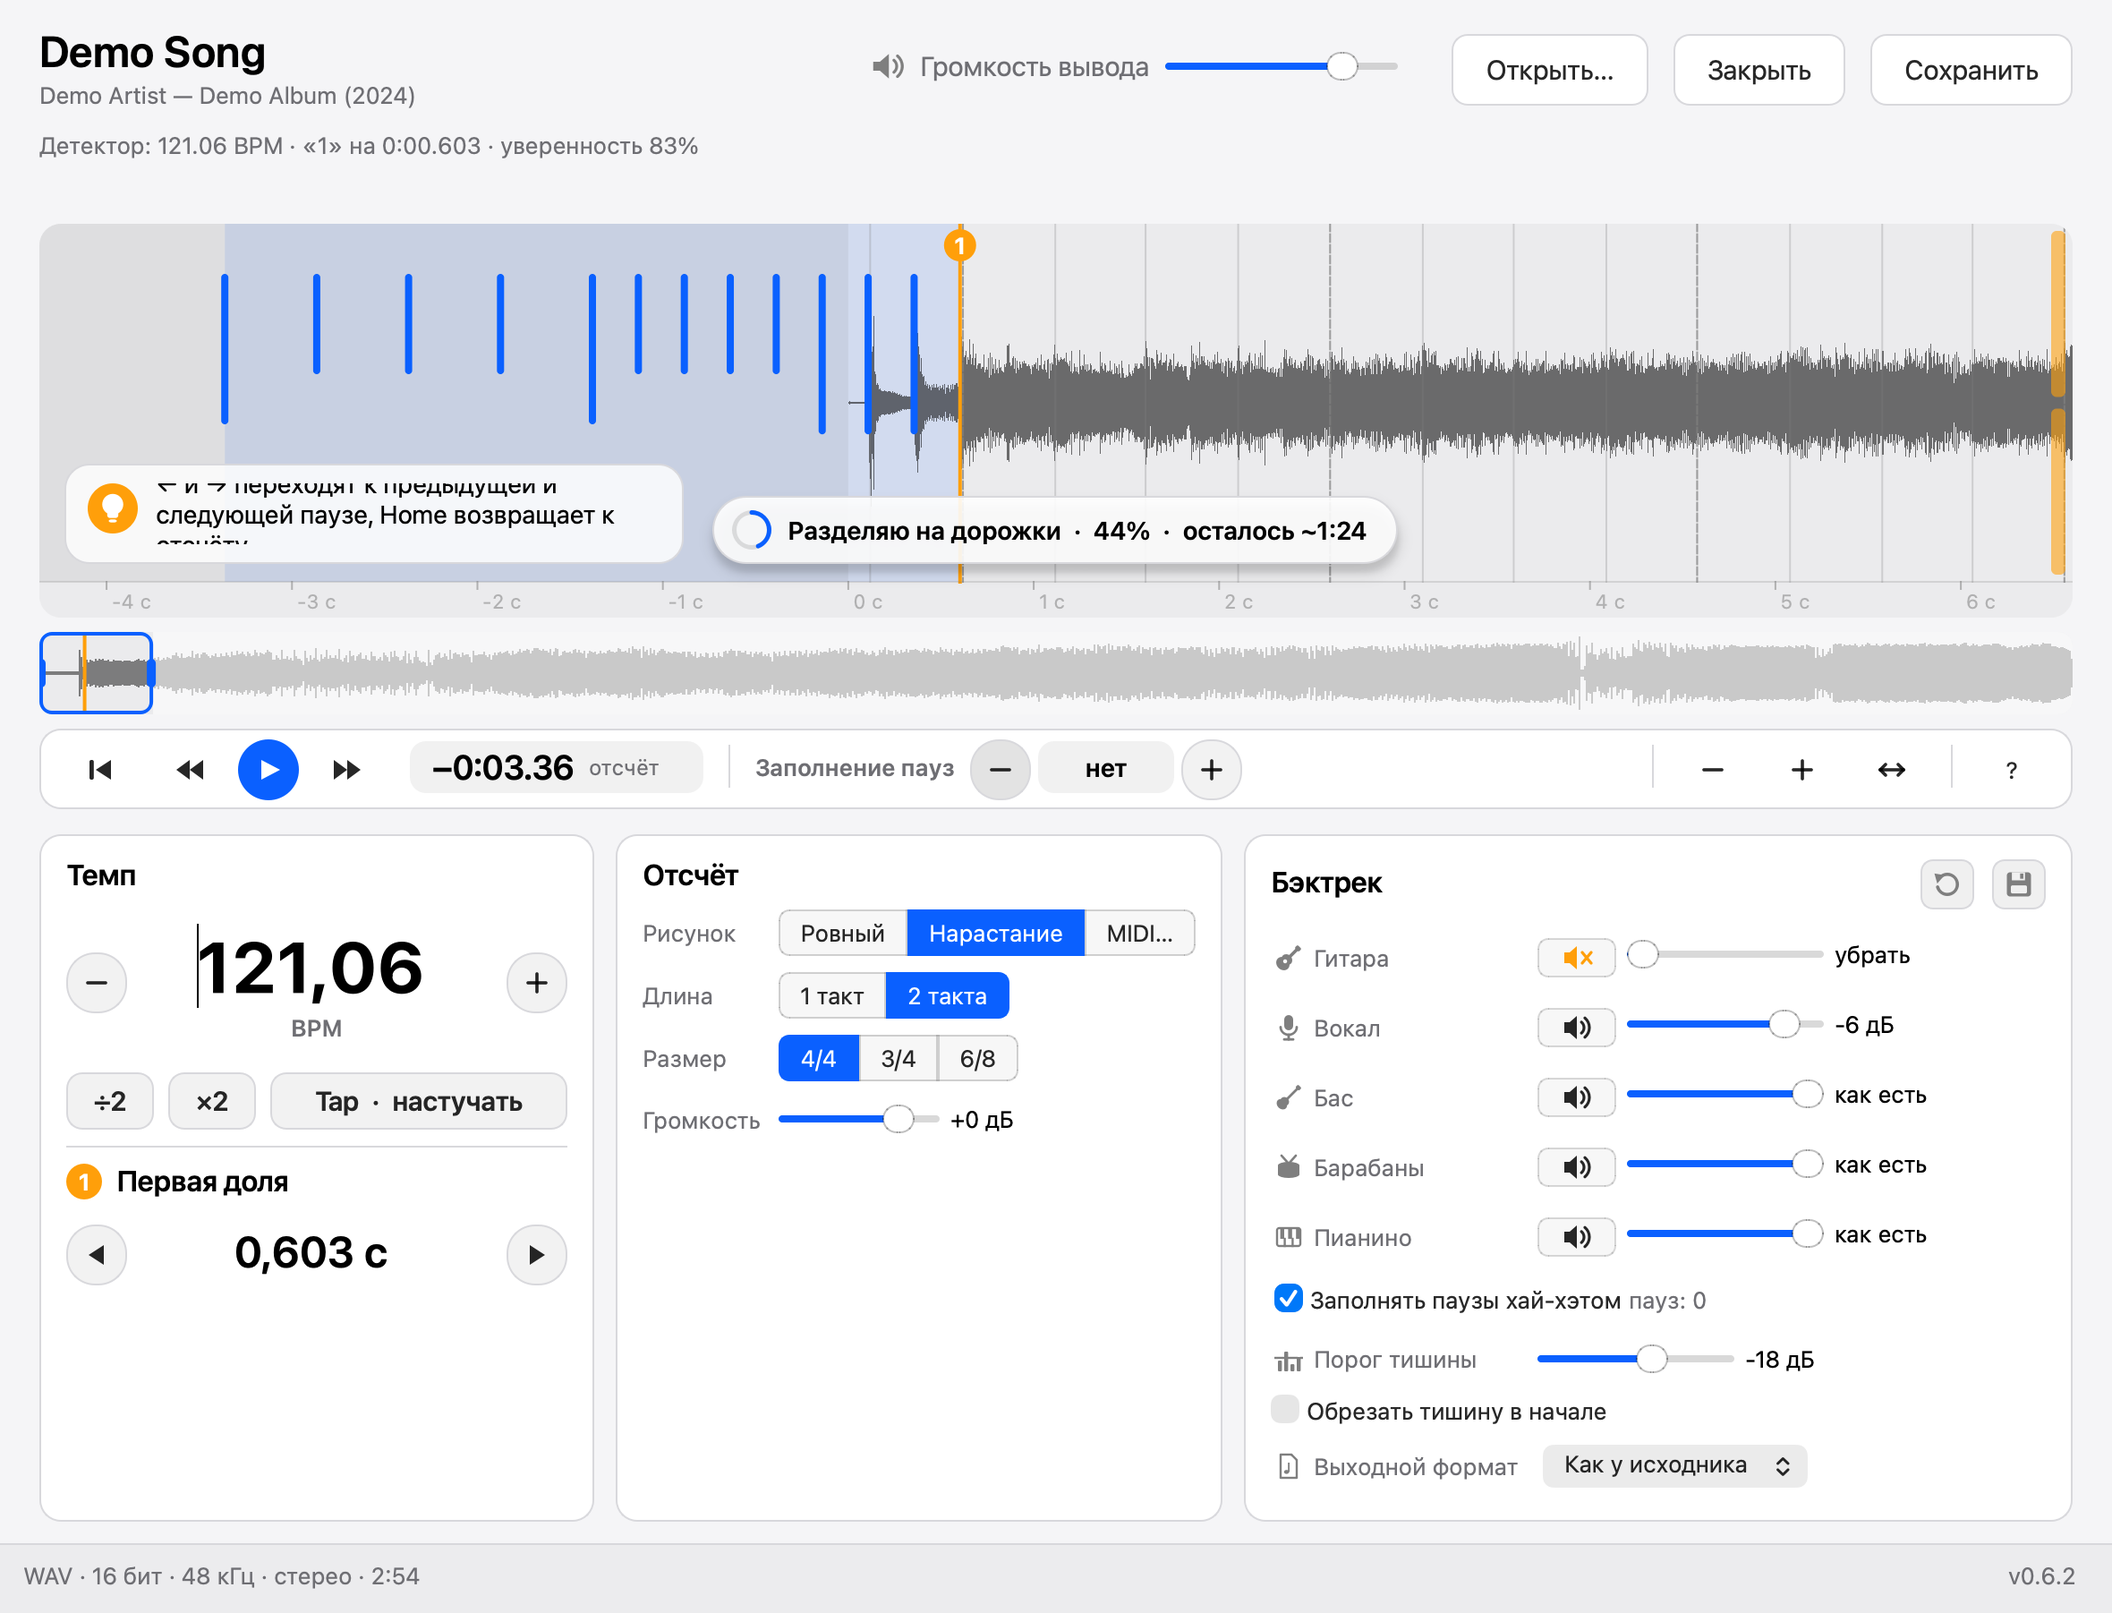
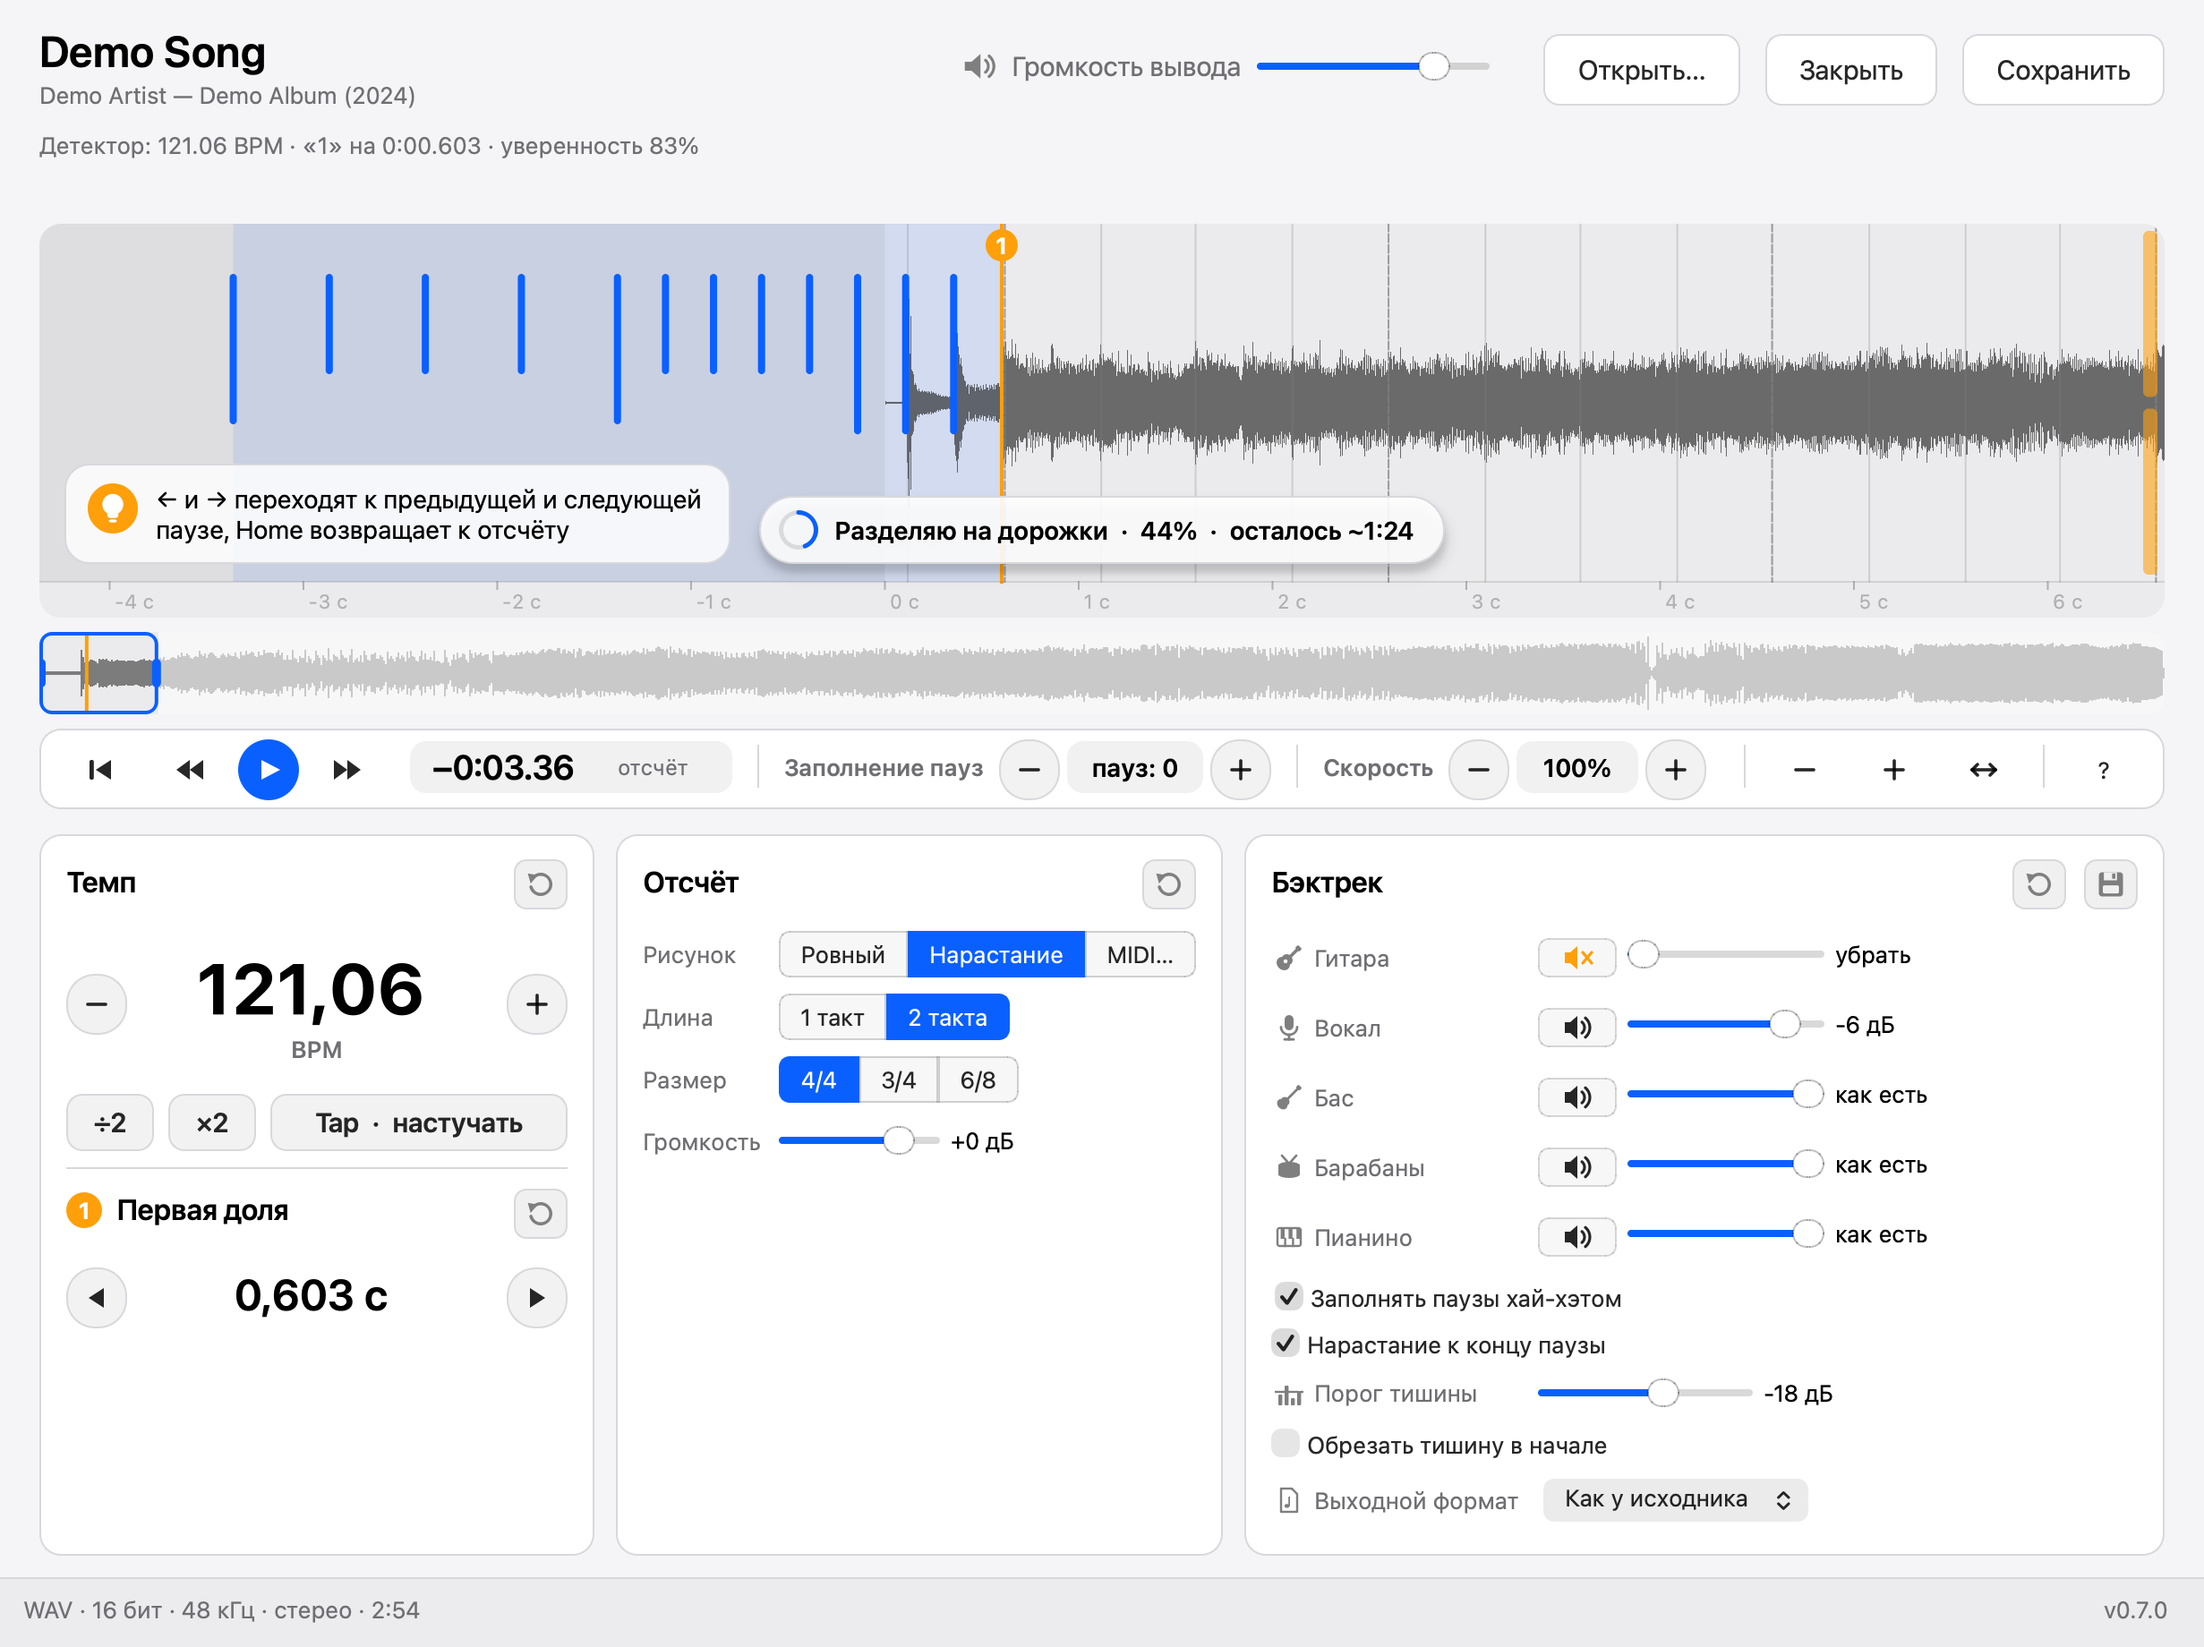
Fresh screenshots and guide images for 0.7.0; wider clock and cache labels

diff --git a/docs/ru/index.html b/docs/ru/index.html
@@ -119,12 +119,17 @@
     <div class="card">
       <div class="ico" aria-hidden="true">≋</div>
       <h3><span lang="ru">Минусовки</span></h3>
-      <p lang="ru">BS-RoFormer отделяет гитару и вокал за один проход. У каждого свой ползунок: приглушить на пару дБ или убрать совсем.</p>
+      <p lang="ru">BS-RoFormer за один проход на видеокарте разделяет гитару, вокал, бас, барабаны и пианино. У каждой дорожки свой ползунок: приглушить на пару дБ или убрать совсем.</p>
     </div>
     <div class="card">
       <div class="ico" aria-hidden="true">▶</div>
-      <h3><span lang="ru">Прослушивание до сохранения</span></h3>
-      <p lang="ru">Пробел проигрывает отсчёт и начало песни. Ползунки меняют звук прямо во время прослушивания.</p>
+      <h3><span lang="ru">Хай-хэт в паузах</span></h3>
+      <p lang="ru">Там, где без убранных инструментов тихо, хай-хэт держит ритм: громкостью как музыка вокруг и с нарастанием к вступлению.</p>
+    </div>
+    <div class="card">
+      <div class="ico" aria-hidden="true">◷</div>
+      <h3><span lang="ru">Замедление</span></h3>
+      <p lang="ru">Занимайтесь на скорости 50–100% без смены тона. Отсчёт и хай-хэт идут по замедленной сетке, замедленный трек можно сохранить.</p>
     </div>
     <div class="card">
       <div class="ico" aria-hidden="true">♫</div>
@@ -141,7 +146,7 @@
 
 <section>
   <h2><span lang="ru">Как пользоваться</span></h2>
-  <p class="sub"><span lang="ru">Отсчёт готов за секунды. Разделение 4-минутной песни занимает около 2,5 минуты на Apple Silicon и дольше на Windows.</span></p>
+  <p class="sub"><span lang="ru">Отсчёт готов за секунды. Разделение начинается сразу после открытия и занимает около минуты на 3-минутную песню на Apple Silicon; пока оно идёт, можно слушать и править. <a href="guide/">Справка</a>.</span></p>
   <div class="grid four">
     <div class="card step">
       <div class="ico">1</div>
@@ -153,7 +158,7 @@
     </div>
     <div class="card step">
       <div class="ico">3</div>
-      <p lang="ru">Выберите рисунок, длину и размер. Для минусовки уберите гитару и вокал.</p>
+      <p lang="ru">Выберите рисунок, длину и размер. Для минусовки уберите партии, которые играете сами.</p>
     </div>
     <div class="card step">
       <div class="ico">4</div>

diff --git a/docs/index.html b/docs/index.html
@@ -119,12 +119,17 @@
     <div class="card">
       <div class="ico" aria-hidden="true">≋</div>
       <h3><span lang="en">Backing tracks</span></h3>
-      <p lang="en">BS-RoFormer separates guitar and vocals in one pass. Each gets its own slider, from a few dB down to fully removed.</p>
+      <p lang="en">BS-RoFormer separates guitar, vocals, bass, drums and piano in one pass, on the GPU. Each gets its own slider, from a few dB down to fully removed.</p>
       </div>
     <div class="card">
       <div class="ico" aria-hidden="true">▶</div>
-      <h3><span lang="en">Listen before saving</span></h3>
-      <p lang="en">Space plays the count-in and the first seconds of the song. The sliders change the mix while it plays.</p>
+      <h3><span lang="en">Hi-hat in the pauses</span></h3>
+      <p lang="en">Where the song goes quiet without the removed parts, a hi-hat keeps the time, as loud as the music around it and with a build-up into the entry.</p>
+      </div>
+    <div class="card">
+      <div class="ico" aria-hidden="true">◷</div>
+      <h3><span lang="en">Slow it down</span></h3>
+      <p lang="en">Practice at 50–100% speed with the pitch kept. The count-in and the hi-hat follow the slowed grid; save the slowed track too.</p>
       </div>
     <div class="card">
       <div class="ico" aria-hidden="true">♫</div>
@@ -141,7 +146,7 @@
 
 <section>
   <h2><span lang="en">How it works</span></h2>
-  <p class="sub"><span lang="en">A count-in takes seconds. Separating a 4-minute song takes about 2.5 minutes on Apple Silicon, longer on Windows.</span></p>
+  <p class="sub"><span lang="en">A count-in takes seconds. Separation starts as soon as a track opens and takes about a minute for a 3-minute song on Apple Silicon; you can listen and edit meanwhile. <a href="guide/">User guide</a>.</span></p>
   <div class="grid four">
     <div class="card step">
       <div class="ico">1</div>
@@ -153,7 +158,7 @@
       </div>
     <div class="card step">
       <div class="ico">3</div>
-      <p lang="en">Pick the pattern, length and meter. For a backing track, lower guitar and vocals.</p>
+      <p lang="en">Pick the pattern, length and meter. For a backing track, lower the parts you play yourself.</p>
       </div>
     <div class="card step">
       <div class="ico">4</div>

diff --git a/docs/ru/guide/index.html b/docs/ru/guide/index.html
@@ -92,7 +92,7 @@
     <h2>Паузы</h2>
     <ul>
       <li>Пауза — это такты, где без убранных инструментов тихо. В ней играет хай-хэт на каждую долю. Отсчёт палочками звучит только в начале песни.</li>
-      <li>С галочкой «Заполнять паузы хай-хэтом» программа ищет паузы сама. «Порог тишины» задаёт, насколько тише среднего должен быть такт.</li>
+      <li>С галочкой «Заполнять паузы хай-хэтом» программа ищет паузы сама, по треку без убранных инструментов. «Порог тишины» подбирается по нему автоматически; его можно сдвинуть, и паузы перестроятся. Если вернуть инструмент, паузы останутся.</li>
       <li>Края паузы тянутся мышью по тактам. Текущая пауза подсвечена ярче.</li>
       <li>Новая пауза получается кнопкой + в блоке «Заполнение пауз» на такте под указателем, выделением тактов с ⇧ или протяжкой по шкале времени.</li>
       <li>Паузу убирает крестик в её заголовке, кнопка − в блоке «Заполнение пауз» или правый щелчок.</li>

diff --git a/docs/guide/index.html b/docs/guide/index.html
@@ -92,7 +92,7 @@
     <h2>Pauses</h2>
     <ul>
       <li>A pause is a run of bars that are quiet once the removed instruments are gone. A hi-hat plays on every beat in it. The stick count-in plays only at the start of the song.</li>
-      <li>With “Fill pauses with hi-hat” on, the app finds pauses by itself. “Silence threshold” sets how far below the average level a bar must be.</li>
+      <li>With “Fill pauses with hi-hat” on, the app finds pauses by itself in the track without the parts you turned down. “Silence threshold” gets fitted to it automatically; move it and the pauses rebuild. Turning a part back on keeps the pauses.</li>
       <li>Pause edges drag along the bars. The current pause is brighter.</li>
       <li>A new pause comes from the + button in “Pause fill” on the bar under the playhead, from selecting bars with ⇧ or from dragging along the time ruler.</li>
       <li>The cross in its header, the − button in “Pause fill” or a right-click removes a pause.</li>

diff --git a/src/countin/gui.py b/src/countin/gui.py
@@ -2028,8 +2028,8 @@ class PrefsDialog(QDialog):
 
         # Stems of songs already separated; the size gets counted off the UI thread
         cache, g3 = card(_("Кэш дорожек"))
-        self.cache_l = QLabel(_("считаю…"), objectName="field")
-        self.cache_b = QPushButton(_("Очистить"), objectName="tool", clicked=self._clear_cache, enabled=False)
+        self.cache_l = QLabel(_("считаю…"), objectName="field", minimumWidth=190)
+        self.cache_b = QPushButton(_("Очистить"), objectName="small", clicked=self._clear_cache, enabled=False)
         row(g3, _("Занимает"), self.cache_l, self.cache_b)
         g3.addWidget(QLabel(_("Песню, которую уже разделяли, программа открывает без нового разделения."),
                             objectName="field", wordWrap=True), g3.rowCount(), 0, 1, 2)
@@ -2397,7 +2397,7 @@ class Window(QMainWindow):
         lh = QHBoxLayout(lcd)
         lh.setContentsMargins(12, 3, 12, 3)
         lh.setSpacing(8)
-        self.lcd_time = QLabel(objectName="lcdTime", minimumWidth=74)
+        self.lcd_time = QLabel(objectName="lcdTime", minimumWidth=96)  # room for "−0:03.36" in the count-in
         self.lcd_bar = QLabel(objectName="lcdSub", minimumWidth=52)
         lh.addWidget(self.lcd_time)
         lh.addWidget(self.lcd_bar)
